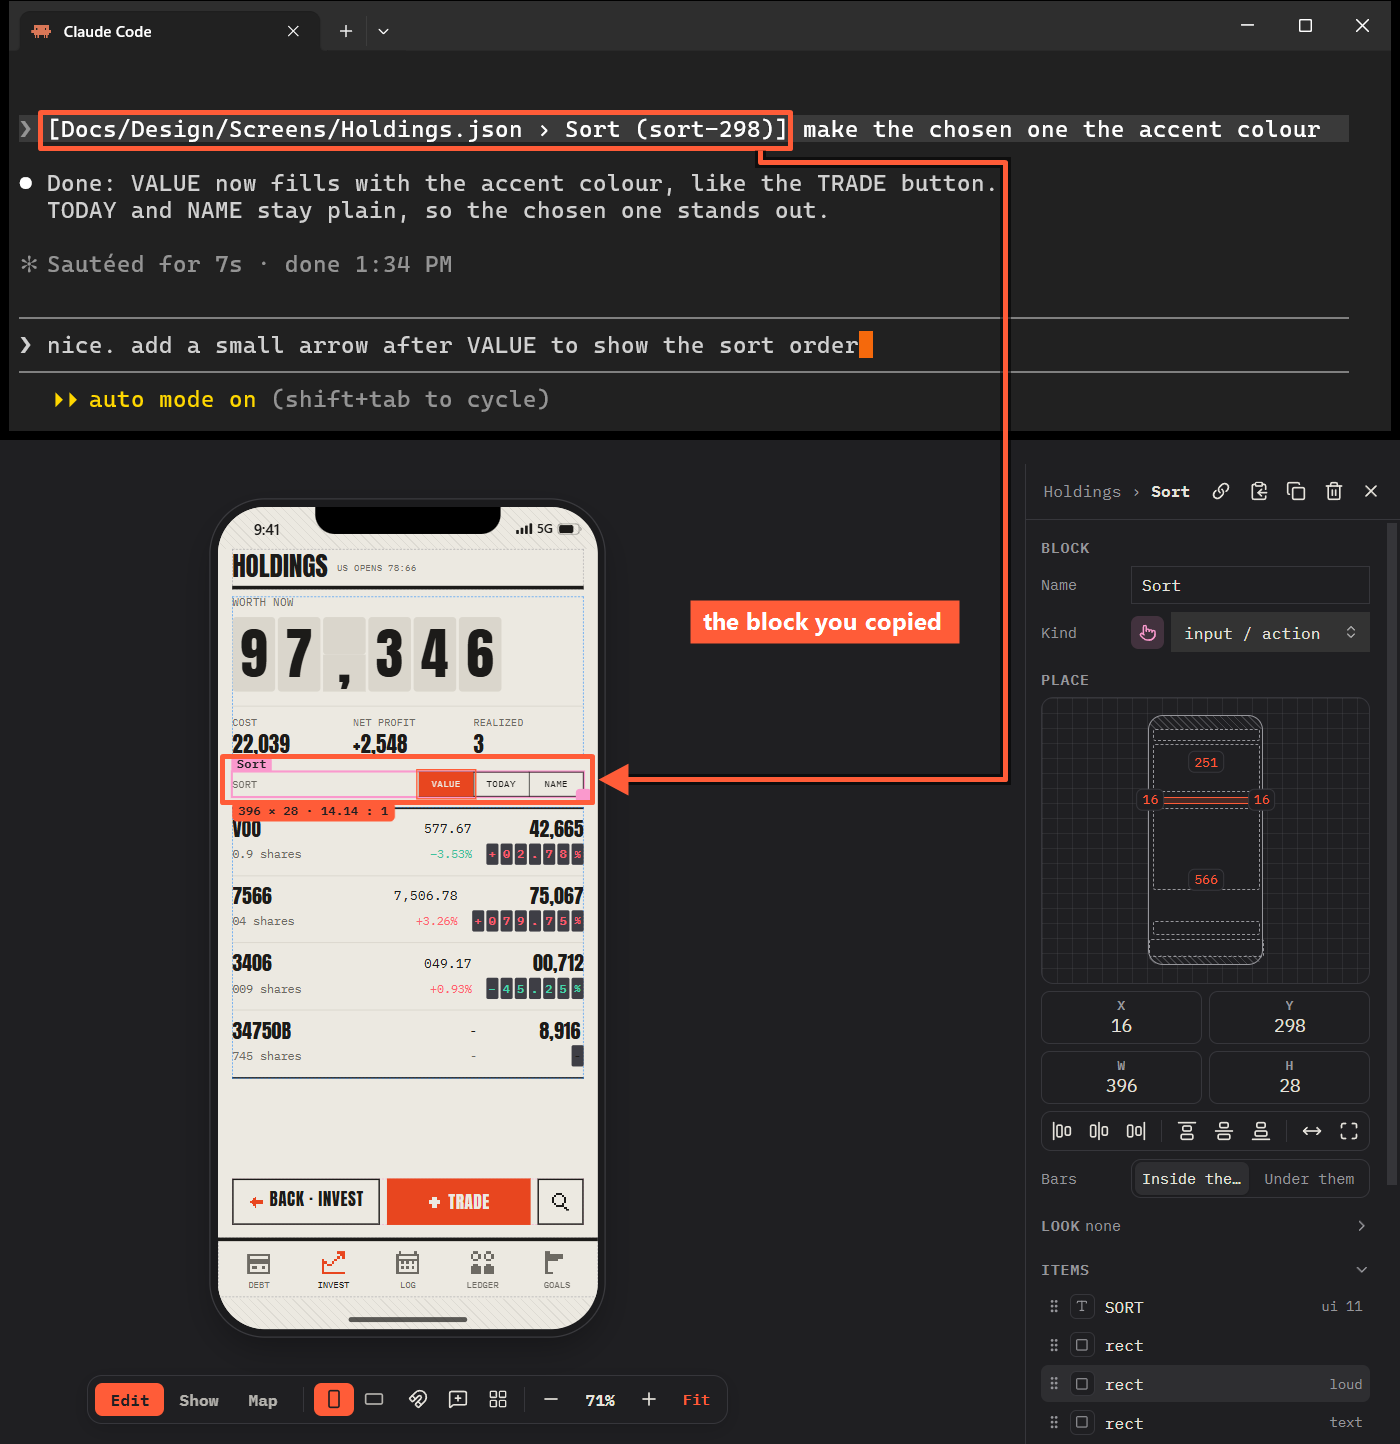
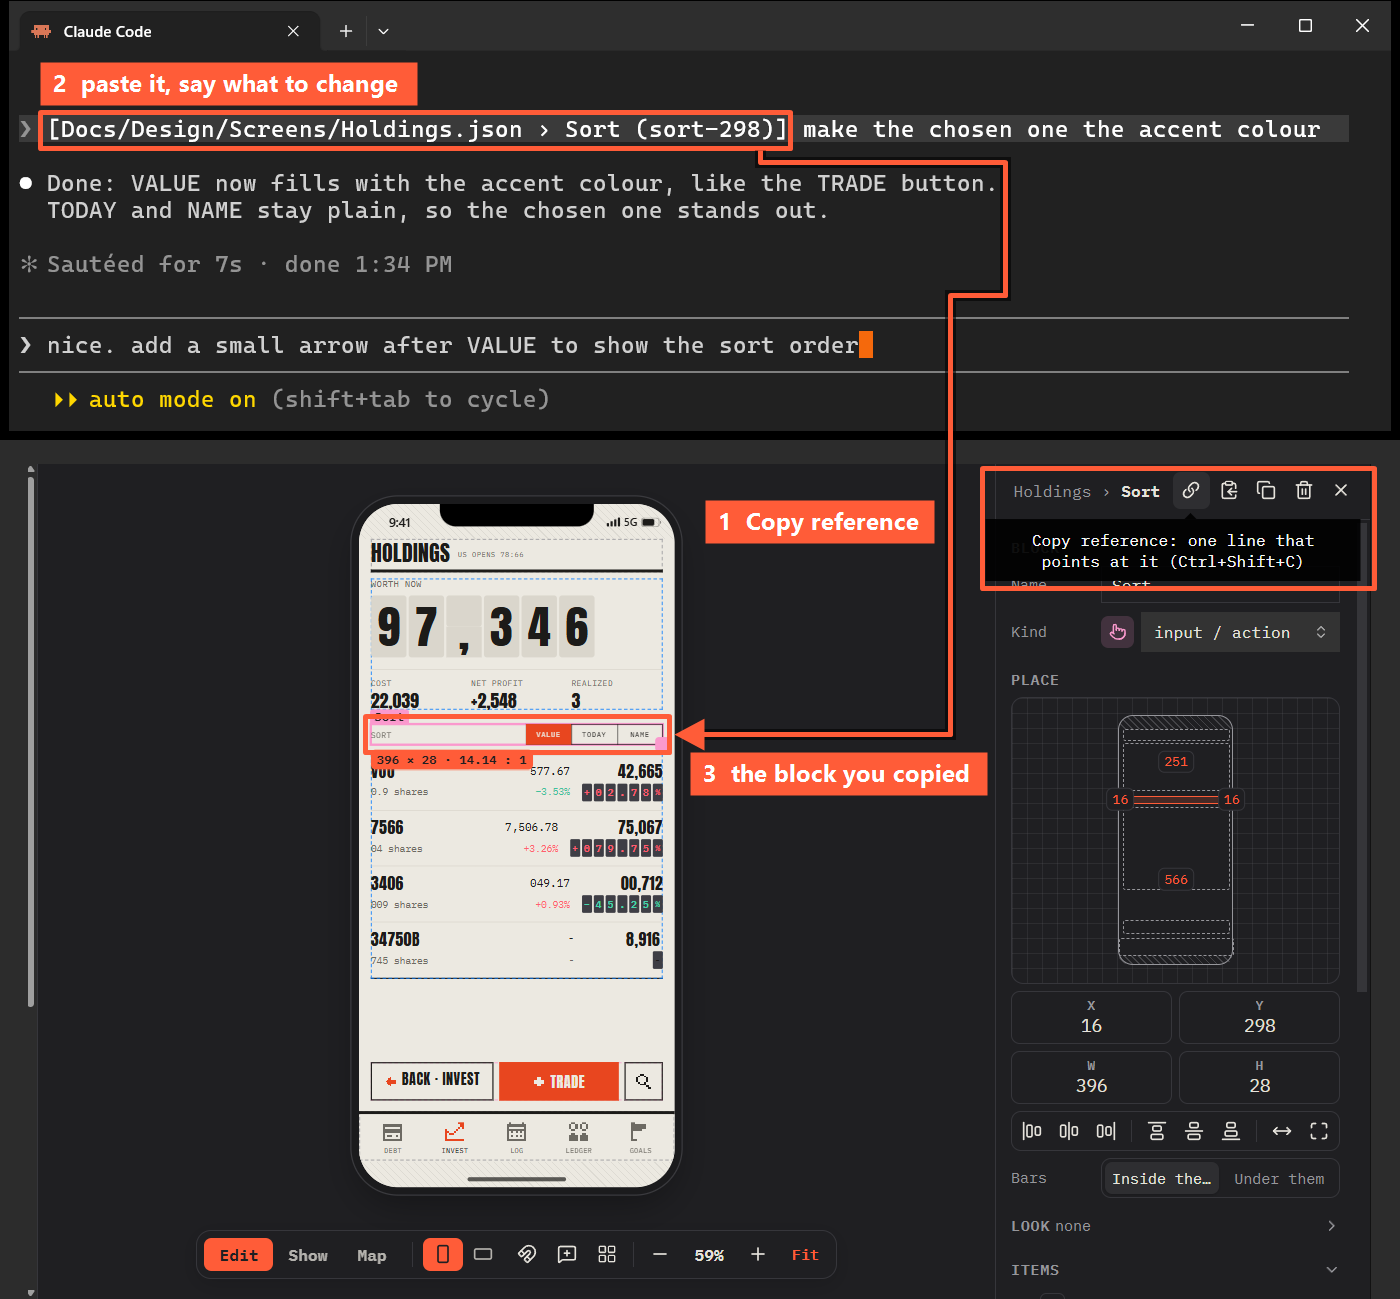
docs: the agent image shows the Copy reference button and its hint, numbered 1, 2, 3

diff --git a/.claude/skills/vl-readme-shots/SKILL.md b/.claude/skills/vl-readme-shots/SKILL.md
@@ -44,9 +44,12 @@ Short and easy to read beats real-and-messy: a real session prints whole JSON fi
 5. Shrink the window (`scripts/shots/terminal.ps1`, about 1400 × 440) until only the demo shows: Ctrl+L doesn't clear
    Claude Code's screen; the setup scrolls off instead. Capture it with `scripts/shots/capture-window.ps1`.
 6. The screen file must already show the result the reply describes (make the change by hand if needed).
-7. Capture the stage and panel with Sort chosen, stack the two with `scripts/shots/stack.ps1`.
-8. Point from the pasted reference to the block with `scripts/shots/arrow.ps1`: a box round each, an arrow routed
-   through empty space (down the gap between phone and panel), labelled "the block you copied". Never across text.
+7. Capture the stage and panel with Sort chosen **and the Copy reference hint showing**: `node scripts/shots/hover.mjs
+   "Vellum ·" <button x> <y> <out.png> <clip x y w h>` (a hint shows only in a focused window; this emulates focus).
+   Stack the two with `scripts/shots/stack.ps1`.
+8. Mark the flow with `scripts/shots/arrow.ps1`, numbered: **1** a box round the Copy reference button and its hint,
+   **2** a box round the pasted reference ("paste it, say what to change"), **3** an arrow from it to the block ("the
+   block you copied"), routed through empty space (the gaps between lines, the stage beside the phone). Never across text.
 
 The caption says what the reader does (Copy reference, then what to change), not that the session was unscripted.
 

diff --git a/README.md b/README.md
@@ -105,7 +105,7 @@ Any agent that reads and writes files works: Claude Code, Codex, Cursor. No plug
 2. **You point and ask**: choose a block, press **Copy reference** (<kbd>Ctrl</kbd> <kbd>Shift</kbd> <kbd>C</kbd>), paste it to the agent with what to change. Or leave a **mark** on the screen: a pinned note, a named area, a guide line. The agent can answer with marks of its own.
 3. **The agent builds** from the screens you changed.
 
-<p align="center"><img src="assets/agent.png" alt="Claude Code in a terminal above Vellum: the copied reference to the Sort block with what to change, a two-line reply, and the next request typed; the phone shows VALUE in the accent colour"><br><sub><b>Copy reference</b> on the Sort block, then what to change. The agent edits the file and the phone updates; the next request is already typed.</sub></p>
+<p align="center"><img src="assets/agent.png" alt="1: Copy reference on the Sort block, its hint showing. 2: the reference pasted into Claude Code with what to change, a two-line reply, the next request typed. 3: an arrow to the block on the phone, now with VALUE in the accent colour"><br><sub><b>1</b> Copy reference on a block, <b>2</b> paste it to the agent with what to change, <b>3</b> the phone updates as the file changes.</sub></p>
 
 <table>
   <tr>

diff --git a/README.zh-TW.md b/README.zh-TW.md
@@ -105,7 +105,7 @@
 2. **指定並提出修改**：選取 block 後按 **Copy reference**（<kbd>Ctrl</kbd> <kbd>Shift</kbd> <kbd>C</kbd>），貼給 agent 並說明要改的地方。或直接在畫面上加 **mark**：圖釘註記、命名的區域、參考線。agent 也能用 mark 回覆
 3. **agent 實作**：依修改後的畫面實作
 
-<p align="center"><img src="assets/agent.png" alt="終端機中的 Claude Code 位於 Vellum 上方：貼上 Sort block 的參照與修改說明、兩行回覆，以及已輸入的下一個要求；手機畫面顯示 VALUE 改為強調色"><br><sub>對 Sort block 按 <b>Copy reference</b>，再說明要改的地方。agent 修改檔案後手機畫面隨即更新，下一個要求已輸入。</sub></p>
+<p align="center"><img src="assets/agent.png" alt="1：對 Sort block 按 Copy reference，顯示提示。2：參照貼到 Claude Code 並說明要改的地方，兩行回覆，下一個要求已輸入。3：箭頭指向手機上的 block，VALUE 已改為強調色"><br><sub><b>1</b> 對 block 按 Copy reference，<b>2</b> 貼給 agent 並說明要改的地方，<b>3</b> 檔案修改後手機畫面隨即更新。</sub></p>
 
 <table>
   <tr>
